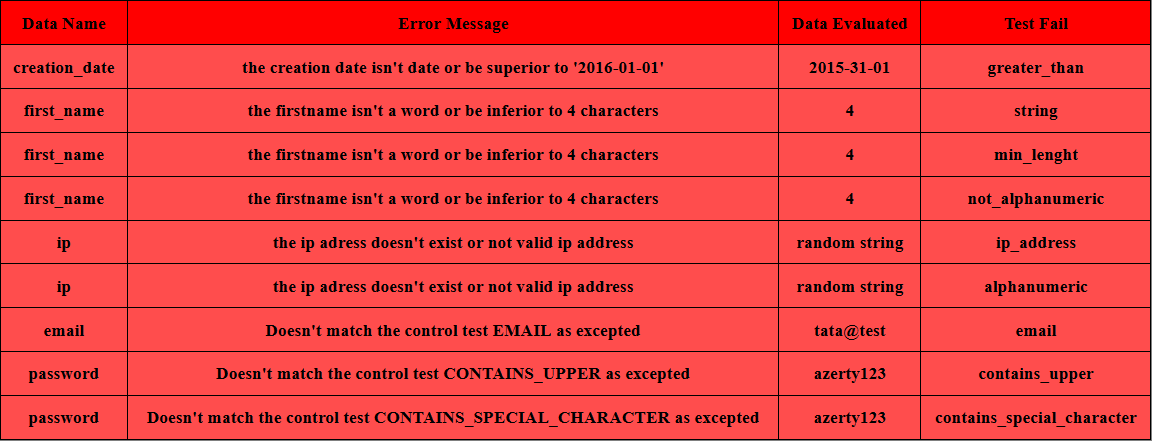
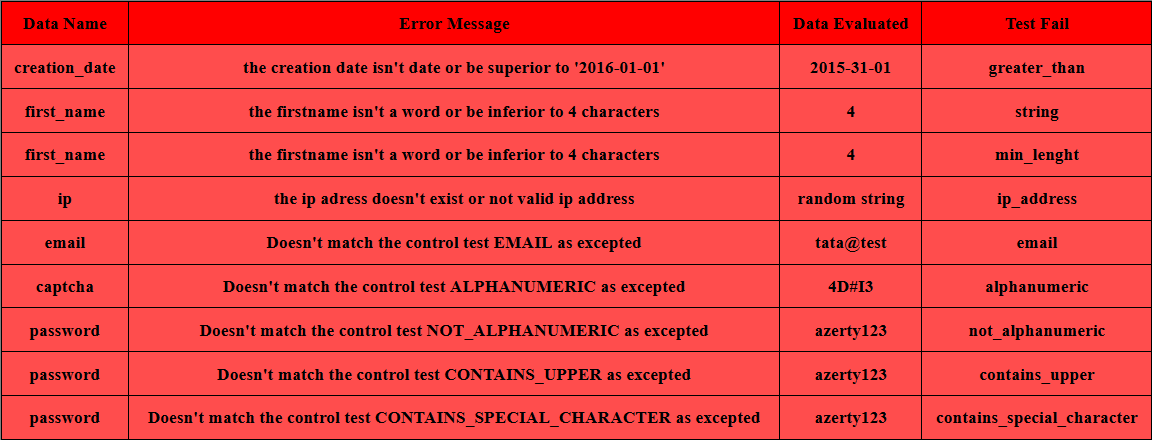
update alphanumeric control, update Readme

diff --git a/tests/UI_datas_checkeur.php b/tests/UI_datas_checkeur.php
@@ -8,7 +8,8 @@ $datas1 = [
             "id" => 24,
             "ip" => "192.25.14.8",
             "email" => "tata@test.com",
-            "test" => "random string"
+            "test" => "random string",
+            "captcha" => "25EC5"
         ];
 
 $datas2 = [
@@ -19,6 +20,7 @@ $datas2 = [
             "ip" => "random string",
             "email" => "tata@test",
             "test" => "random string",
+            "captcha" => "4D#I3",
             "password" => "azerty123"
         ];
 
@@ -30,6 +32,7 @@ $datas3 = [
             "ip" => "192.25.14.2",
             "email" => "tata@jetable.org",
             "test" => "",
+            "captcha" => "4DEI3",
             "password" => "12345"
         ];
 
@@ -41,6 +44,7 @@ $datas4->id = 4;
 $datas4->ip = "::1";
 $datas4->email = "tootoo@test.com";
 $datas4->password = "ThisIsP4\$\$w0rd";
+$datas4->captcha = "4DEI3";
 
 
 /* French Version */
@@ -110,13 +114,13 @@ $check_test = [
         "required",
         "string",
         "min_lenght" => 4,
-        "not_alphanumeric",
         "error_message" => "the firstname isn't a word or be inferior to 4 characters"
     ],
     "last_name" => [
         "required",
         "string",
         "min_lenght" => 1,
+        "not_alphanumeric",
         "error_message" => "the name isn't a word or be inferior to 1 characters"
     ],
     "id" => [
@@ -126,14 +130,21 @@ $check_test = [
     ],
     "ip" => [
         "required",
+        "string",
         "ip_address",
-        "alphanumeric",
         "error_message" => "the ip adress doesn't exist or not valid ip address"
     ],
     "email" => [
         "required",
         "email",
         "disposable_email"
+    ],
+    "captcha" => [
+        "required",
+        "string",
+        "alphanumeric",
+        "min_lenght" => 5,
+        "max_lenght" => 5
     ],
     "test" => [
         "required",
@@ -142,8 +153,8 @@ $check_test = [
     ],
     "password" => [
         "required",
-        "alphanumeric",
         "min_lenght" => 8,
+        "not_alphanumeric",
         "contains_number",
         "contains_lower",
         "contains_upper",
@@ -227,7 +238,6 @@ $isCorrectDatas = $checker->check($datas1, $check_test);
 unset($checker);
 if(is_array($isCorrectDatas))
 {
-
     printTable("- 1", $isCorrectDatas);
 }
 
@@ -236,7 +246,6 @@ $isCorrectDatas = $checker->check($datas2, $check_test);
 unset($checker);
 if(is_array($isCorrectDatas))
 {
-    var_export($isCorrectDatas);
     printTable("- 2", $isCorrectDatas);
 }
 

diff --git a/Datas_checker.php b/Datas_checker.php
@@ -142,13 +142,13 @@ class Datas_checker
 
     private function min_lenght($data, $lenght_greater)
     {
-        if(strlen($data) <= $lenght_greater) return false;
+        if(strlen($data) < $lenght_greater) return false;
         return true;
     }
 
     private function max_lenght($data, $lenght_lower)
     {
-        if(strlen($data) >= $lenght_lower) return false;
+        if(strlen($data) > $lenght_lower) return false;
         return true;
     }
 
@@ -188,17 +188,13 @@ class Datas_checker
 
     private function alphanumeric($data)
     {
-        // ctype_alnum() doesn't match special chars
-        if($this->not_alphanumeric($data)) return false;
+        if (!ctype_alnum($data)) return false;
         return true;
     }
 
     private function not_alphanumeric($data)
     {
-        // ctype_alnum() doesn't match special chars
-        //!preg_match("/^[a-zA-Z éèùëêûîìàòÀÈÉÌÒÙâôöüïäÏÖÜÄËÂÊÎÔÛ'-]+$/", $data) -> doesn't match special chars
-        if (!($this->contains_lower($data) || $this->contains_upper($data))) return false;
-        if ($this->contains_number($data)) return false;
+        if (!preg_match("/^[a-zA-Z éèùëêûîìàòÀÈÉÌÒÙâôöüïäÏÖÜÄËÂÊÎÔÛ'-]+$/", $data)) return false;
         return true;
     }
 

diff --git a/README.md b/README.md
@@ -4,6 +4,34 @@ As its name suggests, data checker allows you to quickly check if your array ele
 
 <b>PHP version >= 5.4</b>
 
+### Available methods:
+
+Here are the different methods currently implemented to verify your data set:
+
+  ```
+   - error_message //set an error on failure
+   - alias //change the default data_name to compose a more explicit message with the error array
+   - required //check null & empty values
+   - string
+   - int
+   - numeric
+   - date
+   - greater_than //works with dates, numerics and int values
+   - lower_than //works with dates, numerics and int values
+   - contains_special_character //define if your string contains special characters
+   - contains_lower //define if your string contains lower case characters
+   - contains_upper //define if your string contains upper case characters
+   - contains_number //define if your string contains number characters
+   - max_lenght
+   - min_lenght
+   - ip_address //IPV4 & IPV6
+   - email
+   - disposable_email
+   - street_address
+   - alphanumeric //doesn't match special chars
+   - not_alphanumeric //doesn't match special chars
+  ```
+
 ### Exemple : 
 
 ```php 
@@ -17,6 +45,7 @@ $datas_to_check =
             "ip" => "random string",
             "email" => "tata@test",
             "test" => "random string",
+            "captcha" => "4D#I3",
             "password" => "azerty123"
         ];
         
@@ -58,6 +87,13 @@ $control_tests =
                 "email",
                 "disposable_email"
             ],
+            "captcha" => [
+                "required",
+                "string",
+                "alphanumeric",
+                "min_lenght" => 5,
+                "max_lenght" => 5
+            ],
             "test" => [
                 "required",
                 "string",
@@ -82,7 +118,7 @@ $isCorrectDatas = $datas_control->check($datas_to_check, $control_tests);
 ![](https://github.com/gravity-zero/datas_checker/blob/master/documentation/imgs/result_table.png)
 ### Result php:
 ```php 
-var_dump($isCorrectDatas); //with prettier output
+var_dump($isCorrectDatas);
     
 [ 
       0 => 
@@ -108,40 +144,40 @@ var_dump($isCorrectDatas); //with prettier output
           ],
       3 => 
           [
-            'error_message' => 'the firstname isn\'t a word or be inferior to 4 characters',
-            'data_eval' => 4,
-            'data_name' => 'first_name',
-            'test_name' => 'not_alphanumeric',
-          ],
-      4 => 
-          [
             'error_message' => 'the ip adress doesn\'t exist or not valid ip address',
             'data_eval' => 'random string',
             'data_name' => 'ip',
             'test_name' => 'ip_address',
           ],
-      5 => 
-          [
-            'error_message' => 'the ip adress doesn\'t exist or not valid ip address',
-            'data_eval' => 'random string',
-            'data_name' => 'ip',
-            'test_name' => 'alphanumeric',
-          ],
-      6 => 
+      4 => 
           [
             'error_message' => 'Doesn\'t match the control test EMAIL as excepted',
             'data_eval' => 'tata@test',
             'data_name' => 'email',
             'test_name' => 'email',
           ],
-      7 => 
+      5 => 
+          [
+            'error_message' => 'Doesn\'t match the control test ALPHANUMERIC as excepted',
+            'data_eval' => '4D#I3',
+            'data_name' => 'captcha',
+            'test_name' => 'alphanumeric'
+          ],
+      7 =>
+          [
+            'error_message' => 'Doesn\'t match the control test NOT_ALPHANUMERIC as excepted',
+            'data_eval' => 'azerty123',
+            'data_name' => 'password',
+            'test_name' => 'not_alphanumeric'
+          ],
+      6 => 
           [
             'error_message' => 'Doesn\'t match the control test CONTAINS_UPPER as excepted',
             'data_eval' => 'azerty123',
             'data_name' => 'password',
             'test_name' => 'contains_upper',
           ],
-      8 => 
+      7 => 
           [
             'error_message' => 'Doesn\'t match the control test CONTAINS_SPECIAL_CHARACTER as excepted',
             'data_eval' => 'azerty123',
@@ -152,33 +188,5 @@ var_dump($isCorrectDatas); //with prettier output
 ```
 
 As you can see, you have everything you need to display a suitable message.
-
-### Available methods: 
-
-Here are the different methods currently implemented to verify your data set:
-
-  ```
-   - error_message //set an error on failure
-   - alias //change the default data_name to compose a more explicit message with the error array
-   - required //check null & empty values
-   - string
-   - int
-   - numeric
-   - date
-   - greater_than //works with dates, numerics and int values
-   - lower_than //works with dates, numerics and int values
-   - contains_special_character //define if your string contains special characters
-   - contains_lower //define if your string contains lower case characters
-   - contains_upper //define if your string contains upper case characters
-   - contains_number //define if your string contains number characters
-   - max_lenght
-   - min_lenght
-   - ip_address //IPV4 & IPV6
-   - email
-   - disposable_email
-   - street_address
-   - alphanumeric //works with special chars
-   - not_alphanumeric //works with special chars
-  ```
 
 Hope this little tool will save you some time to check the validity of your datasets :)
